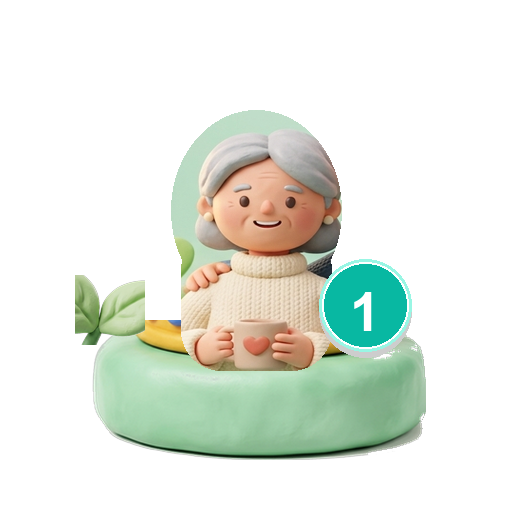
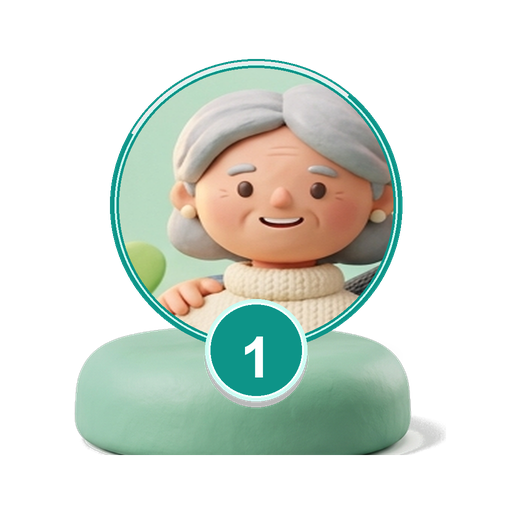
style(subscription): refresh An Tam plan artwork

diff --git a/app/subscription/index.tsx b/app/subscription/index.tsx
@@ -43,6 +43,45 @@ const CROWN_HERO = require("../../assets/images/subscription/crown_hero.png");
 const LEAVES_LEFT = require("../../assets/images/subscription/header_leaves_left.png");
 const PLAN_FREE_IMG = require("../../assets/images/subscription/plan_free.png");
 const PLAN_ANTAM_IMG = require("../../assets/images/subscription/plan_antam.png");
+const PLAN_ANTAM_1_IMG = require("../../assets/images/subscription/plan_antam_1.png");
+const PLAN_ANTAM_2_IMG = require("../../assets/images/subscription/plan_antam_2.png");
+const PLAN_ANTAM_4_IMG = require("../../assets/images/subscription/plan_antam_4.png");
+const PLAN_ANTAM_8_IMG = require("../../assets/images/subscription/plan_antam_8.png");
+
+const PROTECTED_AVATAR_1 = require("../../assets/images/subscription/protected_avatar_1.png");
+const PROTECTED_AVATAR_2 = require("../../assets/images/subscription/protected_avatar_2.png");
+const PROTECTED_AVATAR_3 = require("../../assets/images/subscription/protected_avatar_3.png");
+const PROTECTED_AVATAR_4 = require("../../assets/images/subscription/protected_avatar_4.png");
+
+const PROTECTED_AVATARS = [
+  PROTECTED_AVATAR_1,
+  PROTECTED_AVATAR_2,
+  PROTECTED_AVATAR_3,
+  PROTECTED_AVATAR_4,
+];
+
+function getFallbackProtectedAvatar(userId: number, index: number) {
+  const safeId = Math.abs(userId || 0);
+  const avatarIndex = (safeId + index) % PROTECTED_AVATARS.length;
+  return PROTECTED_AVATARS[avatarIndex];
+}
+
+function getPlanImageByCode(planCode?: PlanCode, isAnTam?: boolean) {
+  switch (planCode) {
+    case "antam_1":
+      return PLAN_ANTAM_1_IMG;
+    case "antam_2":
+      return PLAN_ANTAM_2_IMG;
+    case "antam_4":
+      return PLAN_ANTAM_4_IMG;
+    case "antam_8":
+      return PLAN_ANTAM_8_IMG;
+    case "free":
+      return PLAN_FREE_IMG;
+    default:
+      return isAnTam ? PLAN_ANTAM_IMG : PLAN_FREE_IMG;
+  }
+}
 
 type PlanCode = "free" | "antam_1" | "antam_2" | "antam_4" | "antam_8";
 type SubscriptionStatus = {
@@ -121,6 +160,7 @@ const CurrentPlanCard = memo(function CurrentPlanCard({
   styles,
 }: CurrentPlanCardProps) {
   const isAnTam = !!status?.isAnTam;
+  const currentPlanImage = getPlanImageByCode(status?.planCode, isAnTam);
 
   return (
     <View style={styles.currentPlanCard}>
@@ -133,7 +173,7 @@ const CurrentPlanCard = memo(function CurrentPlanCard({
         <Image
           cachePolicy="memory-disk"
           contentFit="contain"
-          source={isAnTam ? PLAN_ANTAM_IMG : PLAN_FREE_IMG}
+          source={currentPlanImage}
           style={styles.currentPlanBadgeImg}
         />
       </View>
@@ -574,7 +614,7 @@ export default function SubscriptionScreen() {
                 </View>
 
                 <View style={styles.membersList}>
-                  {(household?.members ?? []).map((member) => {
+                  {(household?.members ?? []).map((member, index) => {
                     const memberAvatar =
                       (member.userId === currentUserId
                         ? profile?.avatarUrl
@@ -582,21 +622,24 @@ export default function SubscriptionScreen() {
                       member.avatarUrl ||
                       connectionAvatarMap.get(member.userId) ||
                       null;
-                    const initial = member.name.trim().charAt(0).toUpperCase();
+                    const fallbackAvatar = getFallbackProtectedAvatar(
+                      member.userId,
+                      index
+                    );
 
                     return (
                       <View key={member.userId} style={styles.memberRow}>
                         <View style={styles.memberAvatar}>
-                          {memberAvatar ? (
-                            <Image
-                              cachePolicy="memory-disk"
-                              contentFit="cover"
-                              source={{ uri: memberAvatar }}
-                              style={styles.memberAvatarImg}
-                            />
-                          ) : (
-                            <Text style={styles.memberInitial}>{initial}</Text>
-                          )}
+                          <Image
+                            cachePolicy="memory-disk"
+                            contentFit="cover"
+                            source={
+                              memberAvatar
+                                ? { uri: memberAvatar }
+                                : fallbackAvatar
+                            }
+                            style={styles.memberAvatarImg}
+                          />
                         </View>
                         <View style={styles.memberCopy}>
                           <Text style={styles.memberName}>{member.name}</Text>
@@ -684,12 +727,15 @@ export default function SubscriptionScreen() {
               </Text>
             </Pressable>
           ) : (
-            candidates.map((candidate) => {
+            candidates.map((candidate, idx) => {
               const candAvatar =
                 candidate.avatarUrl ||
                 connectionAvatarMap.get(candidate.userId) ||
                 null;
-              const initial = candidate.name.trim().charAt(0).toUpperCase();
+              const fallbackCandAvatar = getFallbackProtectedAvatar(
+                candidate.userId,
+                idx
+              );
 
               return (
                 <Pressable
@@ -698,16 +744,14 @@ export default function SubscriptionScreen() {
                   onPress={() => addMember(candidate.userId)}
                 >
                   <View style={styles.memberAvatar}>
-                    {candAvatar ? (
-                      <Image
-                        cachePolicy="memory-disk"
-                        contentFit="cover"
-                        source={{ uri: candAvatar }}
-                        style={styles.memberAvatarImg}
-                      />
-                    ) : (
-                      <Text style={styles.memberInitial}>{initial}</Text>
-                    )}
+                    <Image
+                      cachePolicy="memory-disk"
+                      contentFit="cover"
+                      source={
+                        candAvatar ? { uri: candAvatar } : fallbackCandAvatar
+                      }
+                      style={styles.memberAvatarImg}
+                    />
                   </View>
                   <Text style={styles.candidateName}>{candidate.name}</Text>
                   {memberBusy === candidate.userId ? (

diff --git a/src/features/iap/IapPurchaseCard.tsx b/src/features/iap/IapPurchaseCard.tsx
@@ -1,4 +1,5 @@
 import { Ionicons, MaterialCommunityIcons } from "@expo/vector-icons";
+import { Image } from "expo-image";
 import { LinearGradient } from "expo-linear-gradient";
 import React, { useCallback, useEffect, useMemo, useState } from "react";
 import { useTranslation } from "react-i18next";
@@ -13,6 +14,11 @@ import {
   restorePurchases,
   type LocalProduct,
 } from "./iap.service";
+
+const PLAN_ANTAM_1_IMG = require("../../../assets/images/subscription/plan_antam_1.png");
+const PLAN_ANTAM_2_IMG = require("../../../assets/images/subscription/plan_antam_2.png");
+const PLAN_ANTAM_4_IMG = require("../../../assets/images/subscription/plan_antam_4.png");
+const PLAN_ANTAM_8_IMG = require("../../../assets/images/subscription/plan_antam_8.png");
 
 type Props = {
   currentPlanCode?: string;
@@ -234,57 +240,32 @@ export function IapPurchaseCard({
     const isPopular = product.plan_code === "antam_4";
 
     const getPlanAvatar = () => {
+      let source = PLAN_ANTAM_4_IMG;
       switch (product.plan_code) {
         case "antam_1":
-          return (
-            <View
-              style={[
-                styles.gridCardAvatar,
-                { backgroundColor: isDark ? "#064e3b" : "#ecfdf5" },
-              ]}
-            >
-              <Ionicons name="person" size={20} color="#059669" />
-            </View>
-          );
+          source = PLAN_ANTAM_1_IMG;
+          break;
         case "antam_2":
-          return (
-            <View
-              style={[
-                styles.gridCardAvatar,
-                { backgroundColor: isDark ? "#064e3b" : "#ecfdf5" },
-              ]}
-            >
-              <Ionicons name="people" size={20} color="#059669" />
-            </View>
-          );
+          source = PLAN_ANTAM_2_IMG;
+          break;
         case "antam_4":
-          return (
-            <View
-              style={[
-                styles.gridCardAvatar,
-                { backgroundColor: isDark ? "#431407" : "#fff7ed" },
-              ]}
-            >
-              <Ionicons name="heart" size={20} color="#ea580c" />
-            </View>
-          );
+          source = PLAN_ANTAM_4_IMG;
+          break;
         case "antam_8":
-        default:
-          return (
-            <View
-              style={[
-                styles.gridCardAvatar,
-                { backgroundColor: isDark ? "#082f49" : "#f0f9ff" },
-              ]}
-            >
-              <MaterialCommunityIcons
-                name="shield-crown"
-                size={22}
-                color="#0284c7"
-              />
-            </View>
-          );
+          source = PLAN_ANTAM_8_IMG;
+          break;
       }
+
+      return (
+        <View style={styles.gridCardAvatar}>
+          <Image
+            cachePolicy="memory-disk"
+            contentFit="contain"
+            source={source}
+            style={styles.gridCardBadgeImg}
+          />
+        </View>
+      );
     };
 
     const features = [
@@ -695,11 +676,14 @@ function createStyles(isDark: boolean) {
     },
     gridCardAvatar: {
       alignItems: "center",
-      borderRadius: 22,
-      height: 44,
+      height: 48,
       justifyContent: "center",
       marginBottom: 6,
-      width: 44,
+      width: 48,
+    },
+    gridCardBadgeImg: {
+      height: 48,
+      width: 48,
     },
     gridCardTitle: {
       color: isDark ? "#f8fafc" : "#0f172a",
